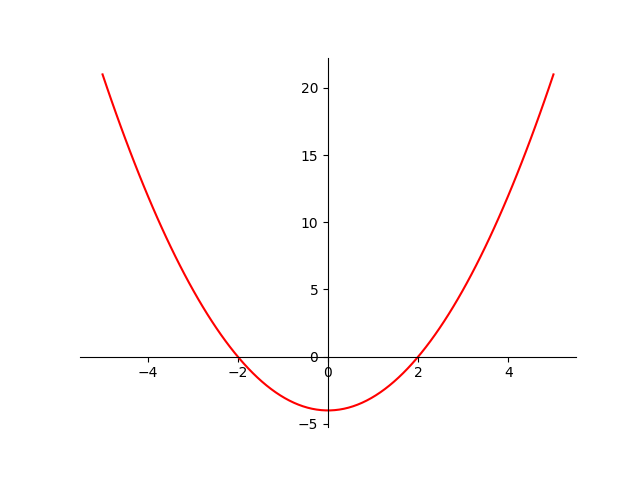
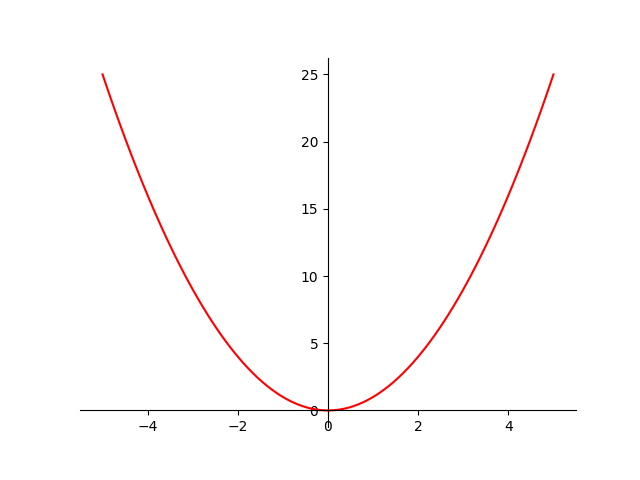
Add files via upload

diff --git a/main.py b/main.py
@@ -19,7 +19,7 @@ from telebot import types
 
 
 go = "hi"
-bot = telebot.TeleBot('5654797665:AAGHtXeh2hew8L8bZvvfXNyiOBiF9bIikog')
+bot = telebot.TeleBot('5900150945:AAEILo4cgaVVO2rsdE9qUlB5ypM0t47-nrQ')
 
 @bot.message_handler(commands=['start'])
 
@@ -33,14 +33,9 @@ def welcome(message):
 
 
     # keyboard (Создание кнопок и приветствие)
-    markup = types.ReplyKeyboardMarkup(resize_keyboard=True)
-    item1 = types.KeyboardButton("Помощь")
-    item2 = types.KeyboardButton("Сообщить об ошибке")
 
-    markup.add(item1, item2)
-
-    bot.send_message(message.chat.id, "Добро пожаловать, {0.first_name}!\nЯ - <b>{1.first_name}</b>, телеграмм бот от HS university! Мой функционал основывается на технологиях wolfram research, но в будущем мы собираемся перейти на свой язык программирования. Нажми «Помощь» чтобы узнать больше о моих возможностях.".format(message.from_user, bot.get_me()),
-        parse_mode='html', reply_markup=markup)
+    bot.send_message(message.chat.id, 'Добро пожаловать, {0.first_name}!\nЯ - <b>{1.first_name}</b>, телеграмм бот от HS university!  Отправь мне какое нибудь математическое выражение вида "y=...".'.format(message.from_user, bot.get_me()),
+        parse_mode='html')
 
 @bot.message_handler(content_types=['text'])
 
@@ -63,16 +58,14 @@ def lalala(message):
             item4 = types.InlineKeyboardButton("Найти производную", callback_data='4')
 
             markup.add(item1, item2, item3, item4)
-
             bot.send_message(message.chat.id, get_message, reply_markup=markup)
 
-        # elif message.text == ' '
-        elif message.text == "Посчитать интеграл":
-            bot.send_message(message.chat.id, "i")
-
-
+        elif message.text == "Помощь" or "/help":
+            bot.send_message(message.chat.id, "Я не знаю такой команды")
+        elif message.text == "/error" or "Сообщить об ошибке":
+            bot.send_message(message.chat.id, "Нашли ошибку, напишите нам @herzogw")
         else:
-            bot.send_message(message.chat.id, "ушел в else")
+            bot.send_message(message.chat.id, "Пока что я не умею воспринимать произвольный текст")
 #---------------------------------------------------------------------------
 #отрисовка графика
 #нижний предел интеграла
@@ -143,12 +136,12 @@ ax.yaxis.set_ticks_position('left')
 plt.plot(x,y, 'r')
 
 # show the plot
-plt.savefig('/home/innoky/Documents/hsbot/HSBOT 2.0/graphs/graphdraw.png')
+plt.savefig('graphs/graphdraw.png')
 ''')
                 os.system("python3 graphdraw.py")
                 bot.edit_message_text(chat_id=call.message.chat.id, message_id=call.message.message_id, text="График вашей функции:",
                     reply_markup=None)
-                bot.send_photo(call.message.chat.id, open('/home/innoky/Documents/hsbot/HSBOT 2.0/graphs/graphdraw.png', 'rb'));
+                bot.send_photo(call.message.chat.id, open('graphs/graphdraw.png', 'rb'));
 
             elif call.data == '3':
                 bot.send_message(call.message.chat.id, '')
@@ -157,7 +150,7 @@ plt.savefig('/home/innoky/Documents/hsbot/HSBOT 2.0/graphs/graphdraw.png')
 
             # show alert
             bot.answer_callback_query(callback_query_id=call.id, show_alert=False,
-                text="Пишите, всегда поможем!")
+                text="HS Abacus")
 
     except Exception as e:
         print(repr(e))

diff --git a/graphdraw.py b/graphdraw.py
@@ -4,7 +4,7 @@ import matplotlib.pyplot as plt
 import os.path
 import numpy as np
 x = np.linspace(-5,5,100)
-y=x**2-4
+y=x**2
 fig = plt.figure()
 ax = fig.add_subplot(1, 1, 1)
 ax.spines['left'].set_position('center')
@@ -17,4 +17,4 @@ ax.yaxis.set_ticks_position('left')
 plt.plot(x,y, 'r')
 
 # show the plot
-plt.savefig('/home/innoky/Documents/hsbot/HSBOT 2.0/graphs/graphdraw.png')
+plt.savefig('graphs/graphdraw.png')
